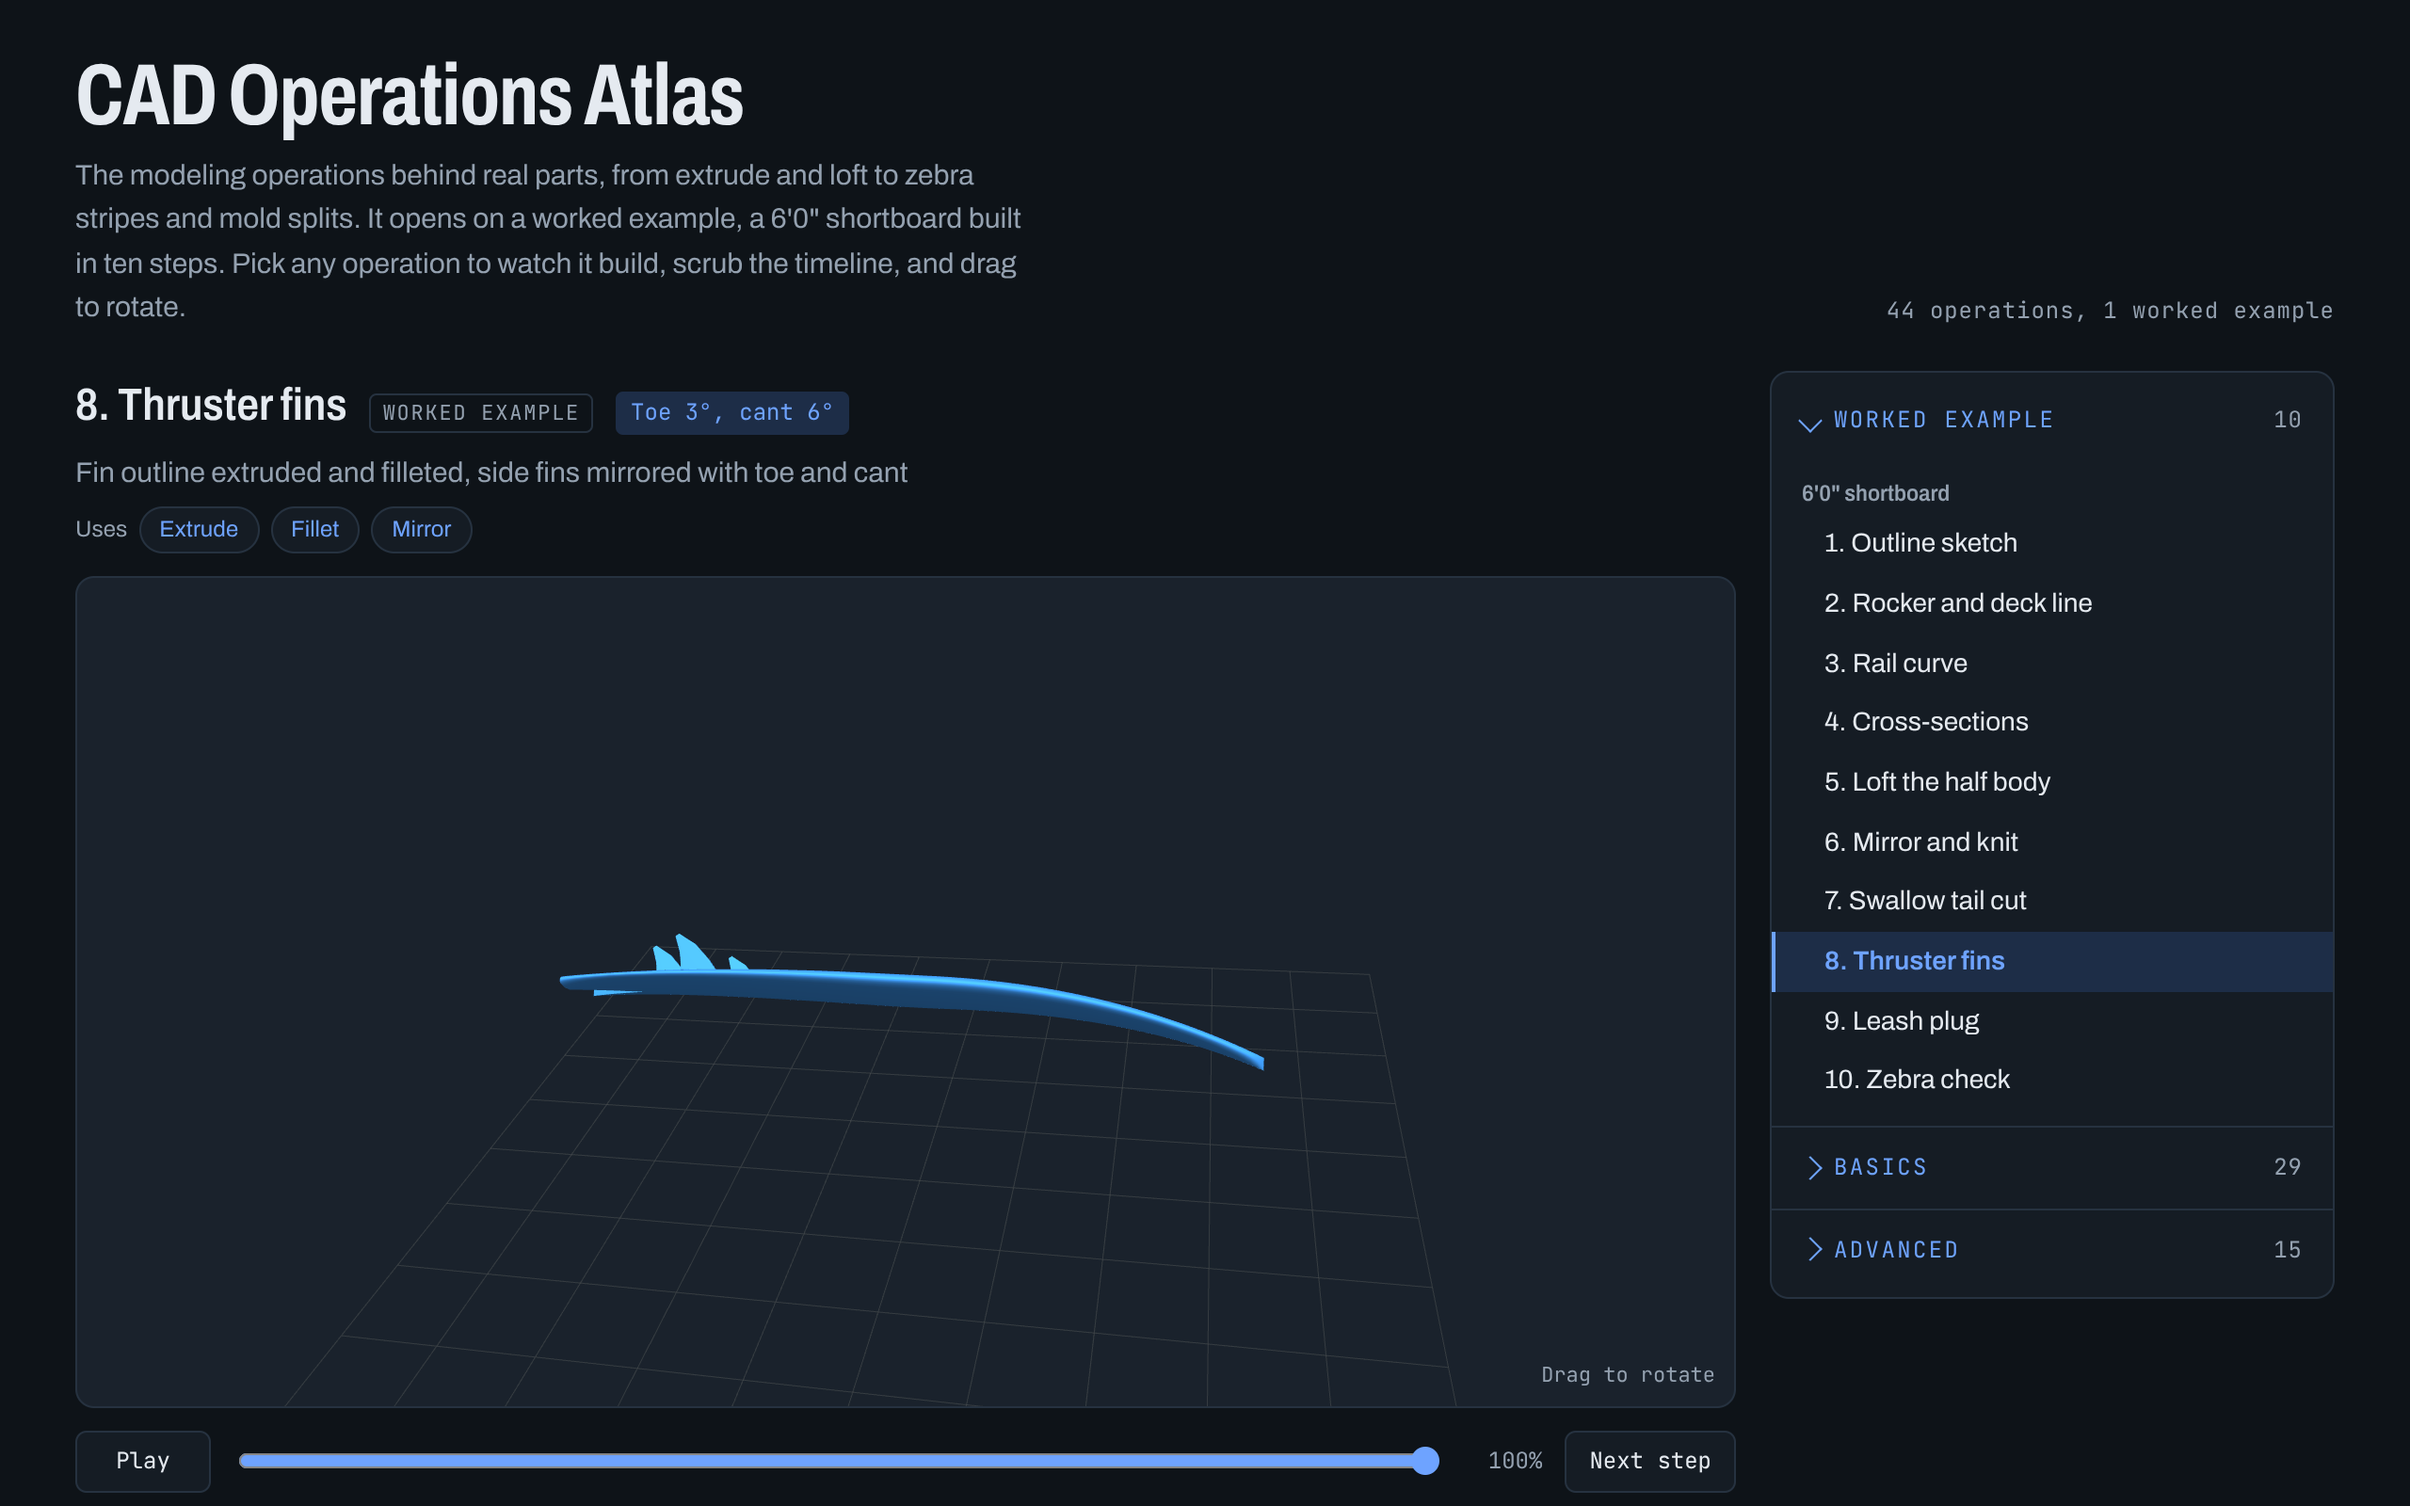
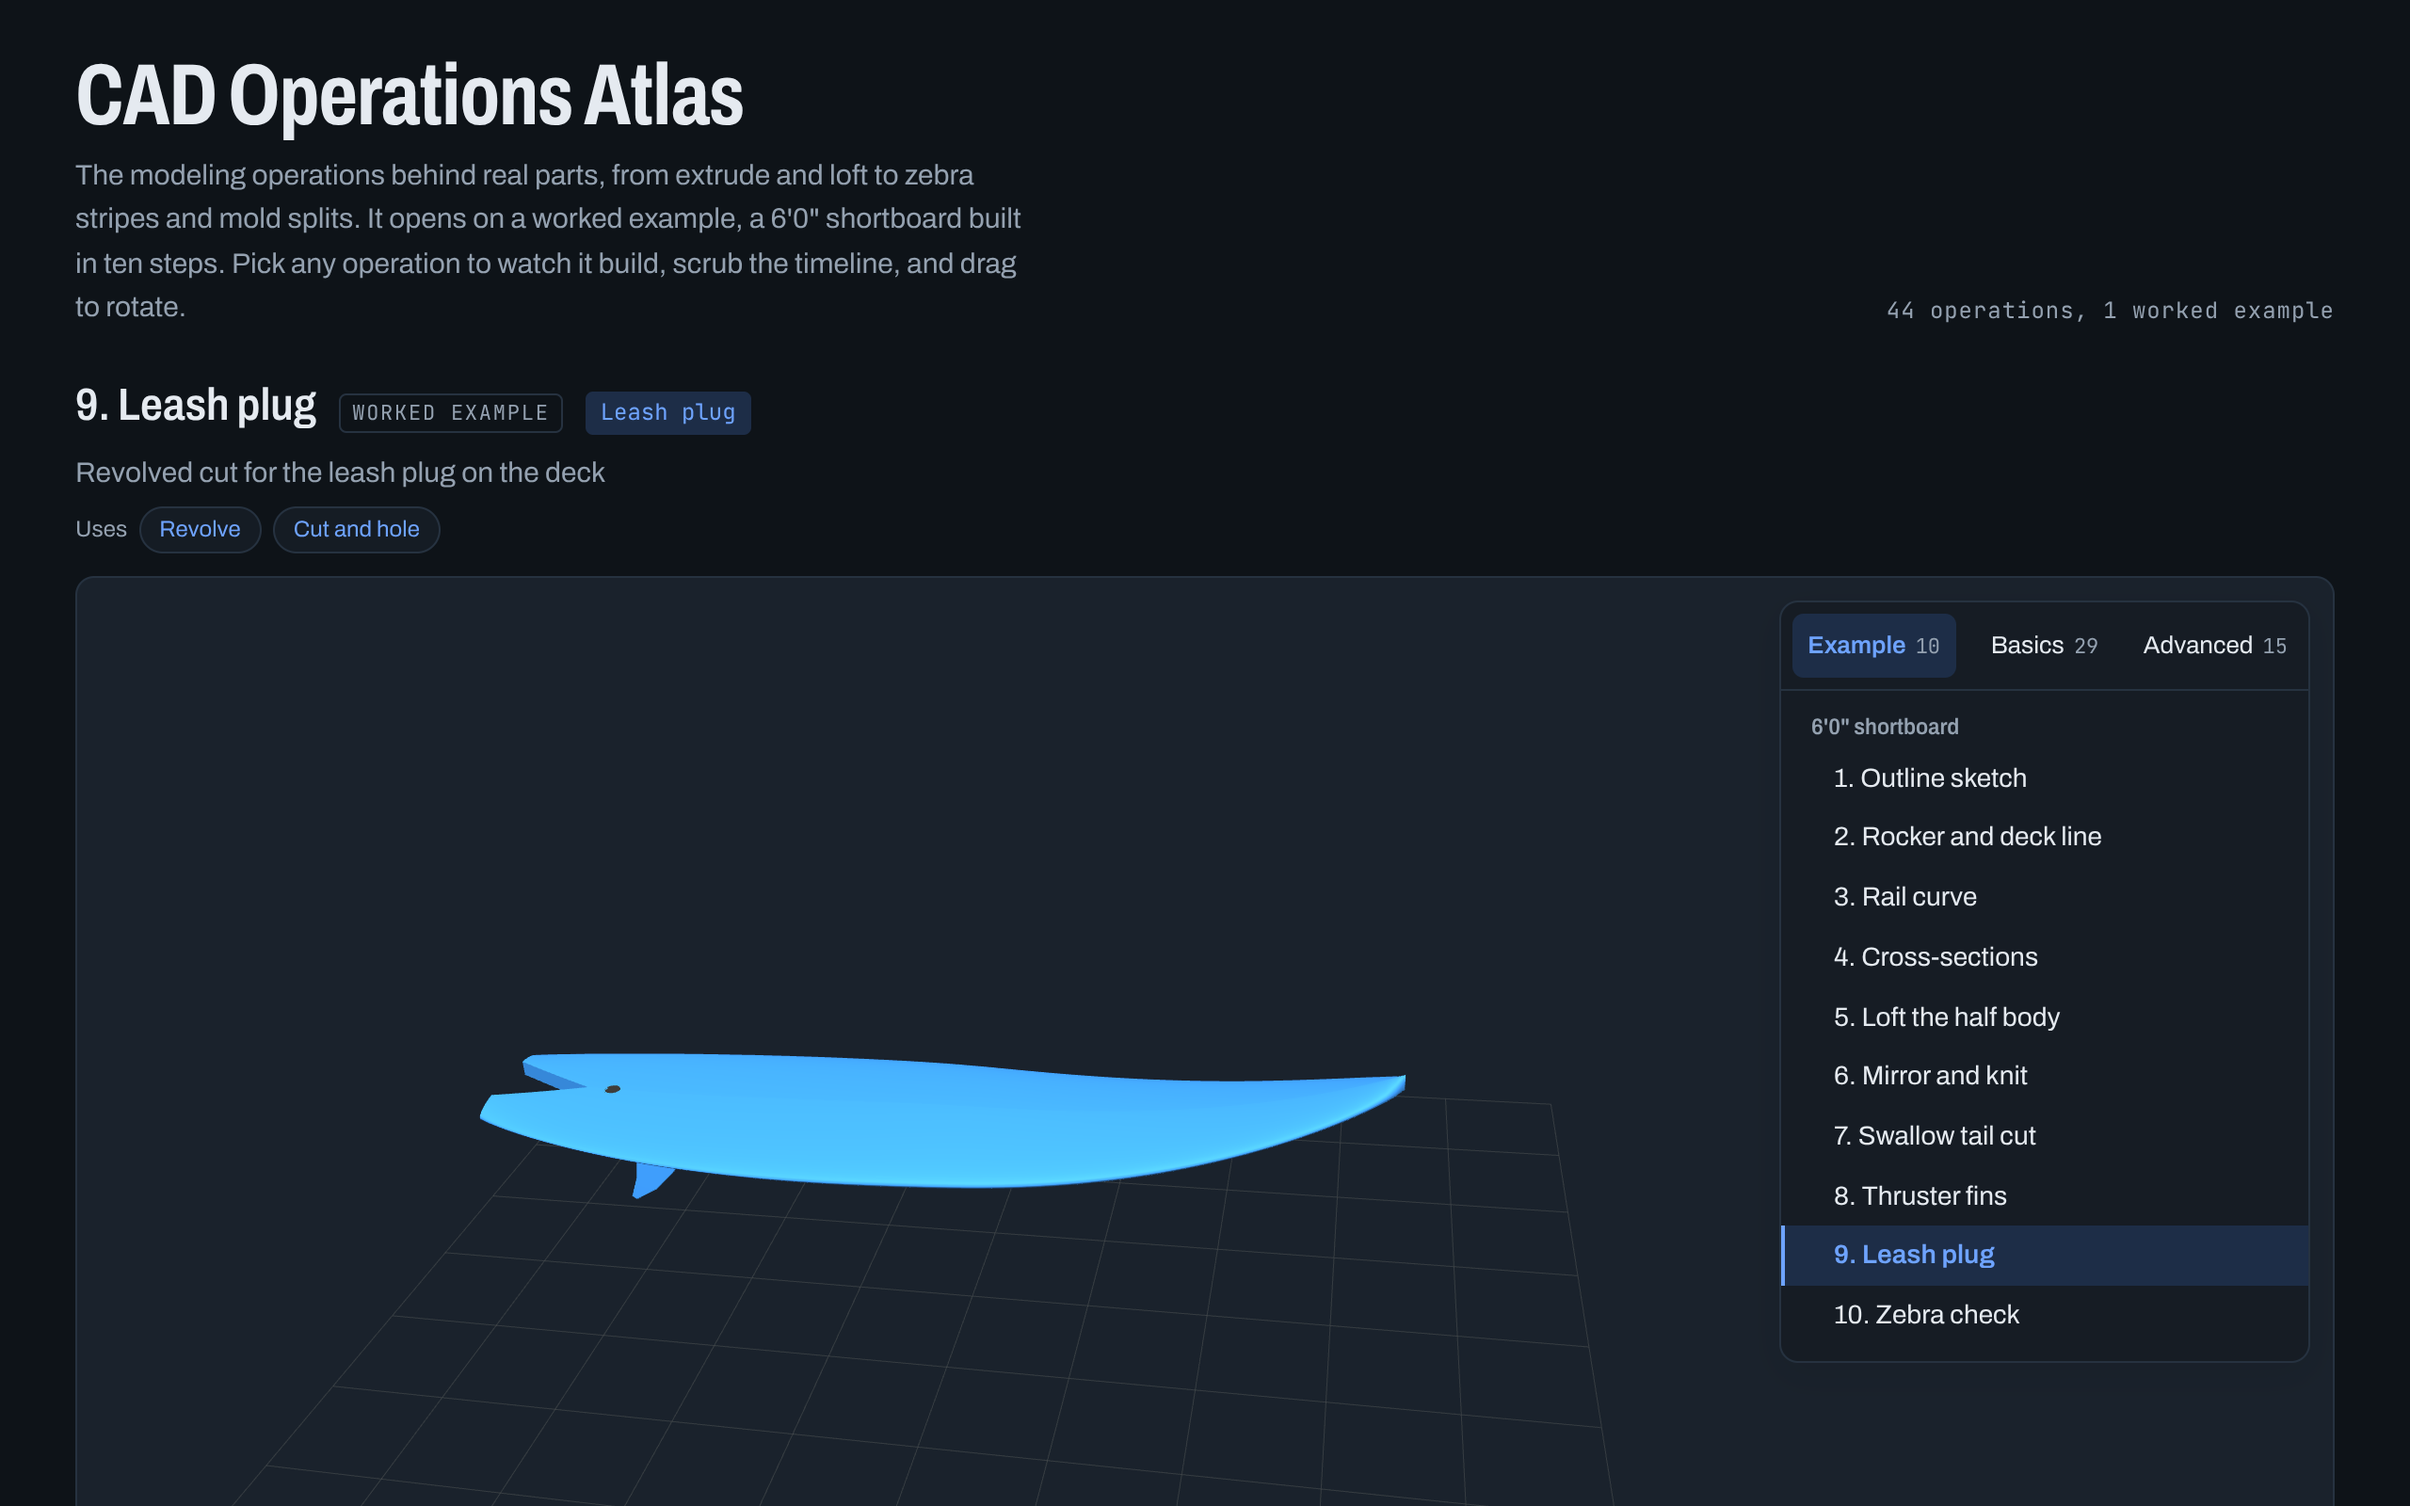
Float the operation menu inside a larger viewer
The menu now sits in the top-right corner of the 3D view as three tabs
(Example, Basics, Advanced) over one scrolling list, so only the chosen
group takes space; clicking the open tab folds the list away. The viewer
is taller and the camera shifts left while the list is open so the
model stays centered in the free area.

Claude-Session: https://claude.ai/code/session_016hYqAyPtgBLio6hxPZYfvW

diff --git a/index.html b/index.html
@@ -11,7 +11,7 @@
 <link rel="preconnect" href="https://fonts.gstatic.com" crossorigin>
 <link rel="stylesheet" href="https://fonts.googleapis.com/css2?family=Archivo:wdth,wght@62..125,400..700&family=JetBrains+Mono:wght@400;500&display=swap">
 <style>
-/* Layout: a modeling workbench. Viewport on the left, a feature-tree style operation list on the right; stacks on phones. */
+/* Layout: a modeling workbench. A large viewport with the operation list floating inside it, top right, as tabs over a scrolling list. */
 :root{
   --bg:#eef1f4;--panel:#ffffff;--stage:#e4e9ef;--ink:#17202b;--muted:#566271;--line:#d3dae2;
   --accent:#2c6bd3;--accent-soft:#dde8fa;
@@ -25,31 +25,29 @@ header{display:flex;flex-wrap:wrap;align-items:flex-end;justify-content:space-be
 h1{font-family:var(--f-display);font-stretch:72%;font-weight:700;font-size:clamp(30px,5vw,46px);line-height:1;letter-spacing:-0.01em;margin:0;text-wrap:balance}
 .lede{color:var(--muted);max-width:60ch;margin:8px 0 0}
 .count{font-family:var(--f-mono);font-size:12px;color:var(--muted);letter-spacing:0.04em}
-.bench{display:grid;grid-template-columns:minmax(0,1fr) clamp(220px,28vw,300px);gap:18px;align-items:start}
-.view{position:sticky;top:calc(env(safe-area-inset-top,0px) + 12px);display:flex;flex-direction:column;gap:12px;min-width:0}
+.view{display:flex;flex-direction:column;gap:12px;min-width:0}
 .ophead{display:flex;flex-wrap:wrap;align-items:baseline;gap:6px 12px}
 .ophead h2{font-family:var(--f-display);font-stretch:85%;font-weight:600;font-size:24px;margin:0}
 .lvl{font-family:var(--f-mono);font-size:11px;text-transform:uppercase;letter-spacing:0.08em;color:var(--muted);border:1px solid var(--line);border-radius:4px;padding:1px 6px}
 #td{color:var(--muted);margin:0;width:100%}
 #st{font-family:var(--f-mono);font-size:12px;padding:2px 8px;border-radius:4px;background:var(--accent-soft);color:var(--accent)}
-#vw{height:440px;background:var(--stage);border:1px solid var(--line);border-radius:10px;overflow:hidden;cursor:grab;touch-action:none;position:relative}
+#vw{height:clamp(460px,72vh,760px);background:var(--stage);border:1px solid var(--line);border-radius:10px;overflow:hidden;cursor:grab;touch-action:none;position:relative}
 #vw:active{cursor:grabbing}
-.hint{position:absolute;right:10px;bottom:8px;font-family:var(--f-mono);font-size:11px;color:var(--muted);pointer-events:none}
+.hint{position:absolute;left:12px;bottom:8px;font-family:var(--f-mono);font-size:11px;color:var(--muted);pointer-events:none}
 .ctrl{display:flex;align-items:center;gap:12px}
 .ctrl button{font:inherit;font-family:var(--f-mono);font-size:12px;border:1px solid var(--line);background:var(--panel);color:var(--ink);border-radius:6px;padding:6px 12px;cursor:pointer;min-width:72px}
 .ctrl input{flex:1;accent-color:var(--accent)}
 #pc{font-family:var(--f-mono);font-size:12px;color:var(--muted);min-width:40px;text-align:right;font-variant-numeric:tabular-nums}
 .legend{display:flex;flex-wrap:wrap;gap:6px 16px;font-size:12px;color:var(--muted)}
 .sw{display:inline-block;width:11px;height:11px;border-radius:2px;vertical-align:-1px;margin-right:6px}
-.tree{background:var(--panel);border:1px solid var(--line);border-radius:10px;padding:4px 0;min-width:0;position:sticky;top:calc(env(safe-area-inset-top,0px) + 12px);max-height:calc(100vh - 24px);overflow:auto;overscroll-behavior:contain}
-.tier{display:flex;align-items:center;gap:8px;width:100%;font:inherit;font-family:var(--f-mono);font-size:12px;text-transform:uppercase;letter-spacing:0.1em;color:var(--accent);background:none;border:0;border-top:1px solid var(--line);padding:12px 16px;cursor:pointer;text-align:left}
-.tier:first-child{border-top:0}
+.tree{position:absolute;z-index:1;top:12px;right:12px;width:280px;max-height:calc(100% - 24px);display:flex;flex-direction:column;background:var(--panel);background:color-mix(in srgb,var(--panel) 90%,transparent);-webkit-backdrop-filter:blur(8px);backdrop-filter:blur(8px);border:1px solid var(--line);border-radius:10px;overflow:hidden;cursor:auto;box-shadow:0 6px 20px rgba(0,0,0,0.08)}
+.tabs{display:flex;gap:4px;padding:6px;flex:none}
+.tier{flex:1;display:flex;align-items:baseline;justify-content:center;gap:5px;font:inherit;font-size:13px;color:var(--ink);background:none;border:0;border-radius:6px;padding:7px 4px;cursor:pointer;white-space:nowrap}
 .tier:hover{background:var(--stage)}
 .tier:focus-visible{outline:2px solid var(--accent);outline-offset:-2px}
-.tier .n{margin-left:auto;color:var(--muted);letter-spacing:0.04em}
-.tier .chev{width:8px;height:8px;border-right:1.5px solid currentColor;border-bottom:1.5px solid currentColor;transform:rotate(-45deg);transition:transform .15s;flex:none}
-.tier[aria-expanded="true"] .chev{transform:rotate(45deg)}
-.items{padding-bottom:8px}
+.tier[aria-expanded="true"]{background:var(--accent-soft);color:var(--accent);font-weight:600}
+.tier .n{font-family:var(--f-mono);font-size:11px;font-weight:400;color:var(--muted)}
+.items{min-height:0;overflow:auto;overscroll-behavior:contain;border-top:1px solid var(--line);padding:2px 0 8px}
 .grp{font-size:12px;font-weight:600;color:var(--muted);padding:8px 16px 2px;font-stretch:90%}
 .tree a{display:block;padding:5px 16px 5px 26px;color:var(--ink);text-decoration:none;font-size:14px;border-left:2px solid transparent}
 .tree a:hover{background:var(--stage)}
@@ -60,7 +58,7 @@ h1{font-family:var(--f-display);font-stretch:72%;font-weight:700;font-size:clamp
 .uses button:hover{border-color:var(--accent)}
 footer{color:var(--muted);font-size:13px;border-top:1px solid var(--line);padding-top:14px}
 @media (max-width:820px){#vw{height:340px}}
-@media (max-width:600px){.bench{grid-template-columns:minmax(0,1fr)}.view{position:static}.tree{order:-1;position:static;max-height:none}}
+@media (max-width:600px){#vw{height:440px}.tree{top:8px;left:8px;right:8px;width:auto;max-height:calc(100% - 16px)}}
 </style>
 </head>
 <body>
@@ -81,7 +79,7 @@ footer{color:var(--muted);font-size:13px;border-top:1px solid var(--line);paddin
         <p id="td">Push a 2D profile straight out</p>
         <div class="uses" id="uses" hidden></div>
       </div>
-      <div id="vw"><span class="hint">Drag to rotate</span></div>
+      <div id="vw"><nav class="tree" id="tree" aria-label="Operations"><div class="tabs" id="tabs"></div></nav><span class="hint">Drag to rotate</span></div>
       <div class="ctrl">
         <button id="pb" type="button">Pause</button>
         <input type="range" id="sl" min="0" max="100" step="1" value="0" aria-label="Operation progress">
@@ -97,7 +95,6 @@ footer{color:var(--muted);font-size:13px;border-top:1px solid var(--line);paddin
         <span><span class="sw" style="background:#7F77DD"></span>Control cage</span>
       </div>
     </section>
-    <nav class="tree" id="tree" aria-label="Operations"></nav>
   </div>
 
   <footer>Simplified schematic previews for learning. Names follow SOLIDWORKS terms; most CAD tools have the same operations under similar names. Each operation has its own link: add its name after # in the address, for example #loft.</footer>
@@ -222,7 +219,8 @@ const ren=new T3.WebGLRenderer({antialias:true,alpha:true});ren.setPixelRatio(Ma
 const scene=new T3.Scene(),cam=new T3.PerspectiveCamera(35,1,0.1,100);cam.position.set(3.8,2.7,4.4);cam.lookAt(0,0,0);
 scene.add(new T3.HemisphereLight(0xffffff,0x888888,0.85));const dl=new T3.DirectionalLight(0xffffff,0.75);dl.position.set(3,5,4);scene.add(dl);
 const piv=new T3.Group();scene.add(piv);const gh=new T3.GridHelper(5,10,0x888780,0x888780);gh.material.transparent=true;gh.material.opacity=0.25;gh.position.y=-1.15;piv.add(gh);
-function size(){const w=vw.clientWidth,h=vw.clientHeight;ren.setSize(w,h);cam.aspect=w/h;cam.updateProjectionMatrix();}new ResizeObserver(size).observe(vw);size();
+let panelOpen=false;const wide=matchMedia('(min-width:601px)');
+function size(){const w=vw.clientWidth,h=vw.clientHeight;ren.setSize(w,h);cam.aspect=w/h;const off=panelOpen&&wide.matches?(document.getElementById('tree').offsetWidth+12)/2:0;if(off)cam.setViewOffset(w,h,off,0,w,h);else cam.clearViewOffset();cam.updateProjectionMatrix();}wide.addEventListener('change',size);new ResizeObserver(size).observe(vw);size();
 
 let cur=0,playing=true,start=performance.now(),lastT=-1,lastOp=-1,drag=null,rx=0.1,ry=0.4;
 const reduce=matchMedia('(prefers-reduced-motion: reduce)').matches;
@@ -232,14 +230,14 @@ const sl=document.getElementById('sl'),pc=document.getElementById('pc'),pb=docum
 function setPlay(p){playing=p;pb.textContent=p?'Pause':'Play';if(p)start=performance.now()-T*2600;}
 pb.onclick=()=>setPlay(!playing);
 sl.oninput=()=>{setPlay(false);T=sl.value/100;};
-vw.addEventListener('pointerdown',e=>{drag={x:e.clientX,y:e.clientY};vw.setPointerCapture(e.pointerId);});
+vw.addEventListener('pointerdown',e=>{if(e.target.closest('.tree'))return;drag={x:e.clientX,y:e.clientY};vw.setPointerCapture(e.pointerId);});
 vw.addEventListener('pointermove',e=>{if(!drag)return;ry+=(e.clientX-drag.x)*0.01;rx=Math.max(-0.8,Math.min(1.1,rx+(e.clientY-drag.y)*0.01));drag={x:e.clientX,y:e.clientY};});
 vw.addEventListener('pointerup',()=>drag=null);
 
 const tree=document.getElementById('tree');let tier='',grp='',links=[];
 const tiers={},narrow=matchMedia('(max-width:600px)');let box=null;
-function openTier(name,open){Object.entries(tiers).forEach(([k,t])=>{const on=k===name&&open;t.b.setAttribute('aria-expanded',on);t.box.hidden=!on;});}
-OPS.forEach((o,i)=>{if(o[0]!==tier){tier=o[0];grp='';const name=tier,b=document.createElement('button');b.type='button';b.className='tier';b.innerHTML='<span class="chev"></span><span></span><span class="n"></span>';b.children[1].textContent=name;box=document.createElement('div');box.className='items';box.id='tier-'+slug(name);b.setAttribute('aria-controls',box.id);b.onclick=()=>openTier(name,b.getAttribute('aria-expanded')!=='true');tree.append(b,box);tiers[name]={b,box,n:0};}tiers[tier].n++;tiers[tier].b.lastChild.textContent=tiers[tier].n;if(o[1]!==grp){grp=o[1];const h=document.createElement('div');h.className='grp';h.textContent=grp;box.appendChild(h);}const a=document.createElement('a');a.href='#'+o[5];a.textContent=o[2];a.onclick=e=>{e.preventDefault();go(i);if(narrow.matches){openTier('',false);document.querySelector('.view').scrollIntoView({behavior:reduce?'auto':'smooth'});}};box.appendChild(a);links.push(a);});
+function openTier(name,open){Object.entries(tiers).forEach(([k,t])=>{const on=k===name&&open;t.b.setAttribute('aria-expanded',on);t.box.hidden=!on;});panelOpen=!!name&&open;size();}
+OPS.forEach((o,i)=>{if(o[0]!==tier){tier=o[0];grp='';const name=tier,b=document.createElement('button');b.type='button';b.className='tier';b.innerHTML='<span></span><span class="n"></span>';b.firstChild.textContent=name==='Worked example'?'Example':name;b.title=name;box=document.createElement('div');box.className='items';box.id='tier-'+slug(name);b.setAttribute('aria-controls',box.id);b.onclick=()=>openTier(name,b.getAttribute('aria-expanded')!=='true');box.hidden=true;document.getElementById('tabs').append(b);tree.append(box);tiers[name]={b,box,n:0};}tiers[tier].n++;tiers[tier].b.lastChild.textContent=tiers[tier].n;if(o[1]!==grp){grp=o[1];const h=document.createElement('div');h.className='grp';h.textContent=grp;box.appendChild(h);}const a=document.createElement('a');a.href='#'+o[5];a.textContent=o[2];a.onclick=e=>{e.preventDefault();go(i);if(narrow.matches)openTier('',false);};box.appendChild(a);links.push(a);});
 const usesEl=document.getElementById('uses'),nx=document.getElementById('nx');
 function go(i){select(i);openTier(OPS[i][0],true);try{history.replaceState(null,'','#'+OPS[i][5]);}catch(_){}}
 nx.onclick=()=>go((cur+1)%NEX);
